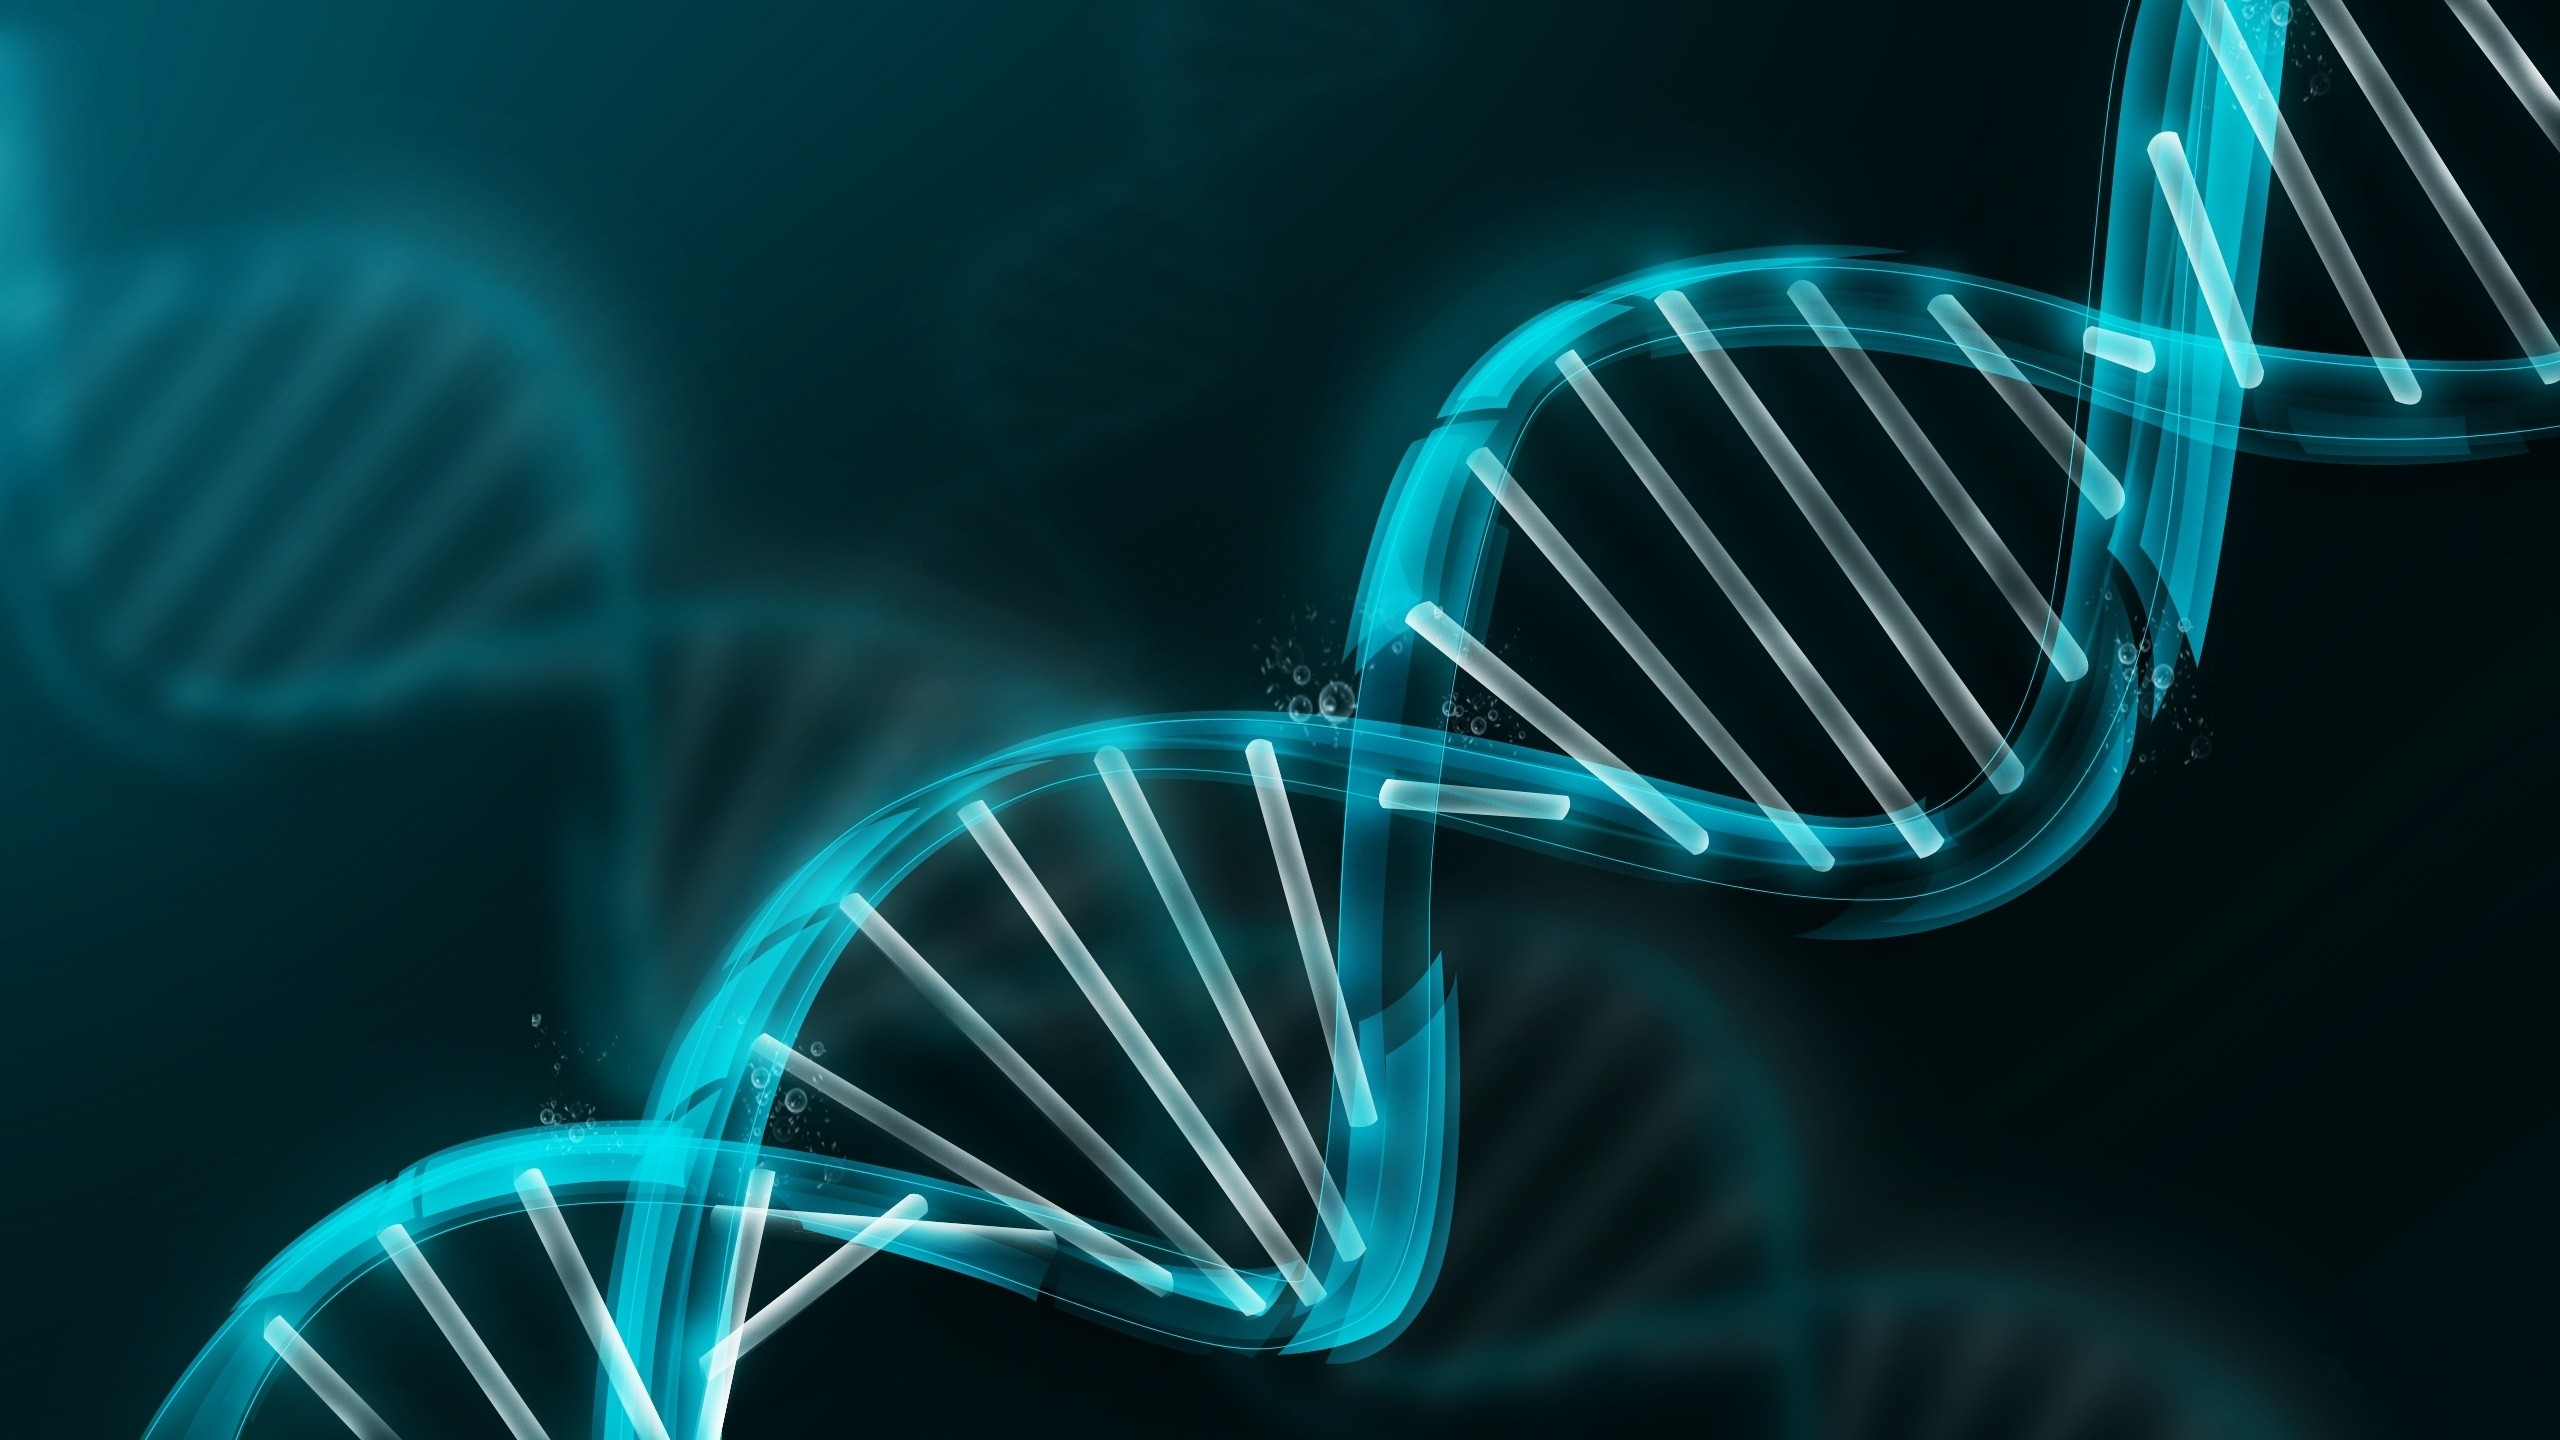
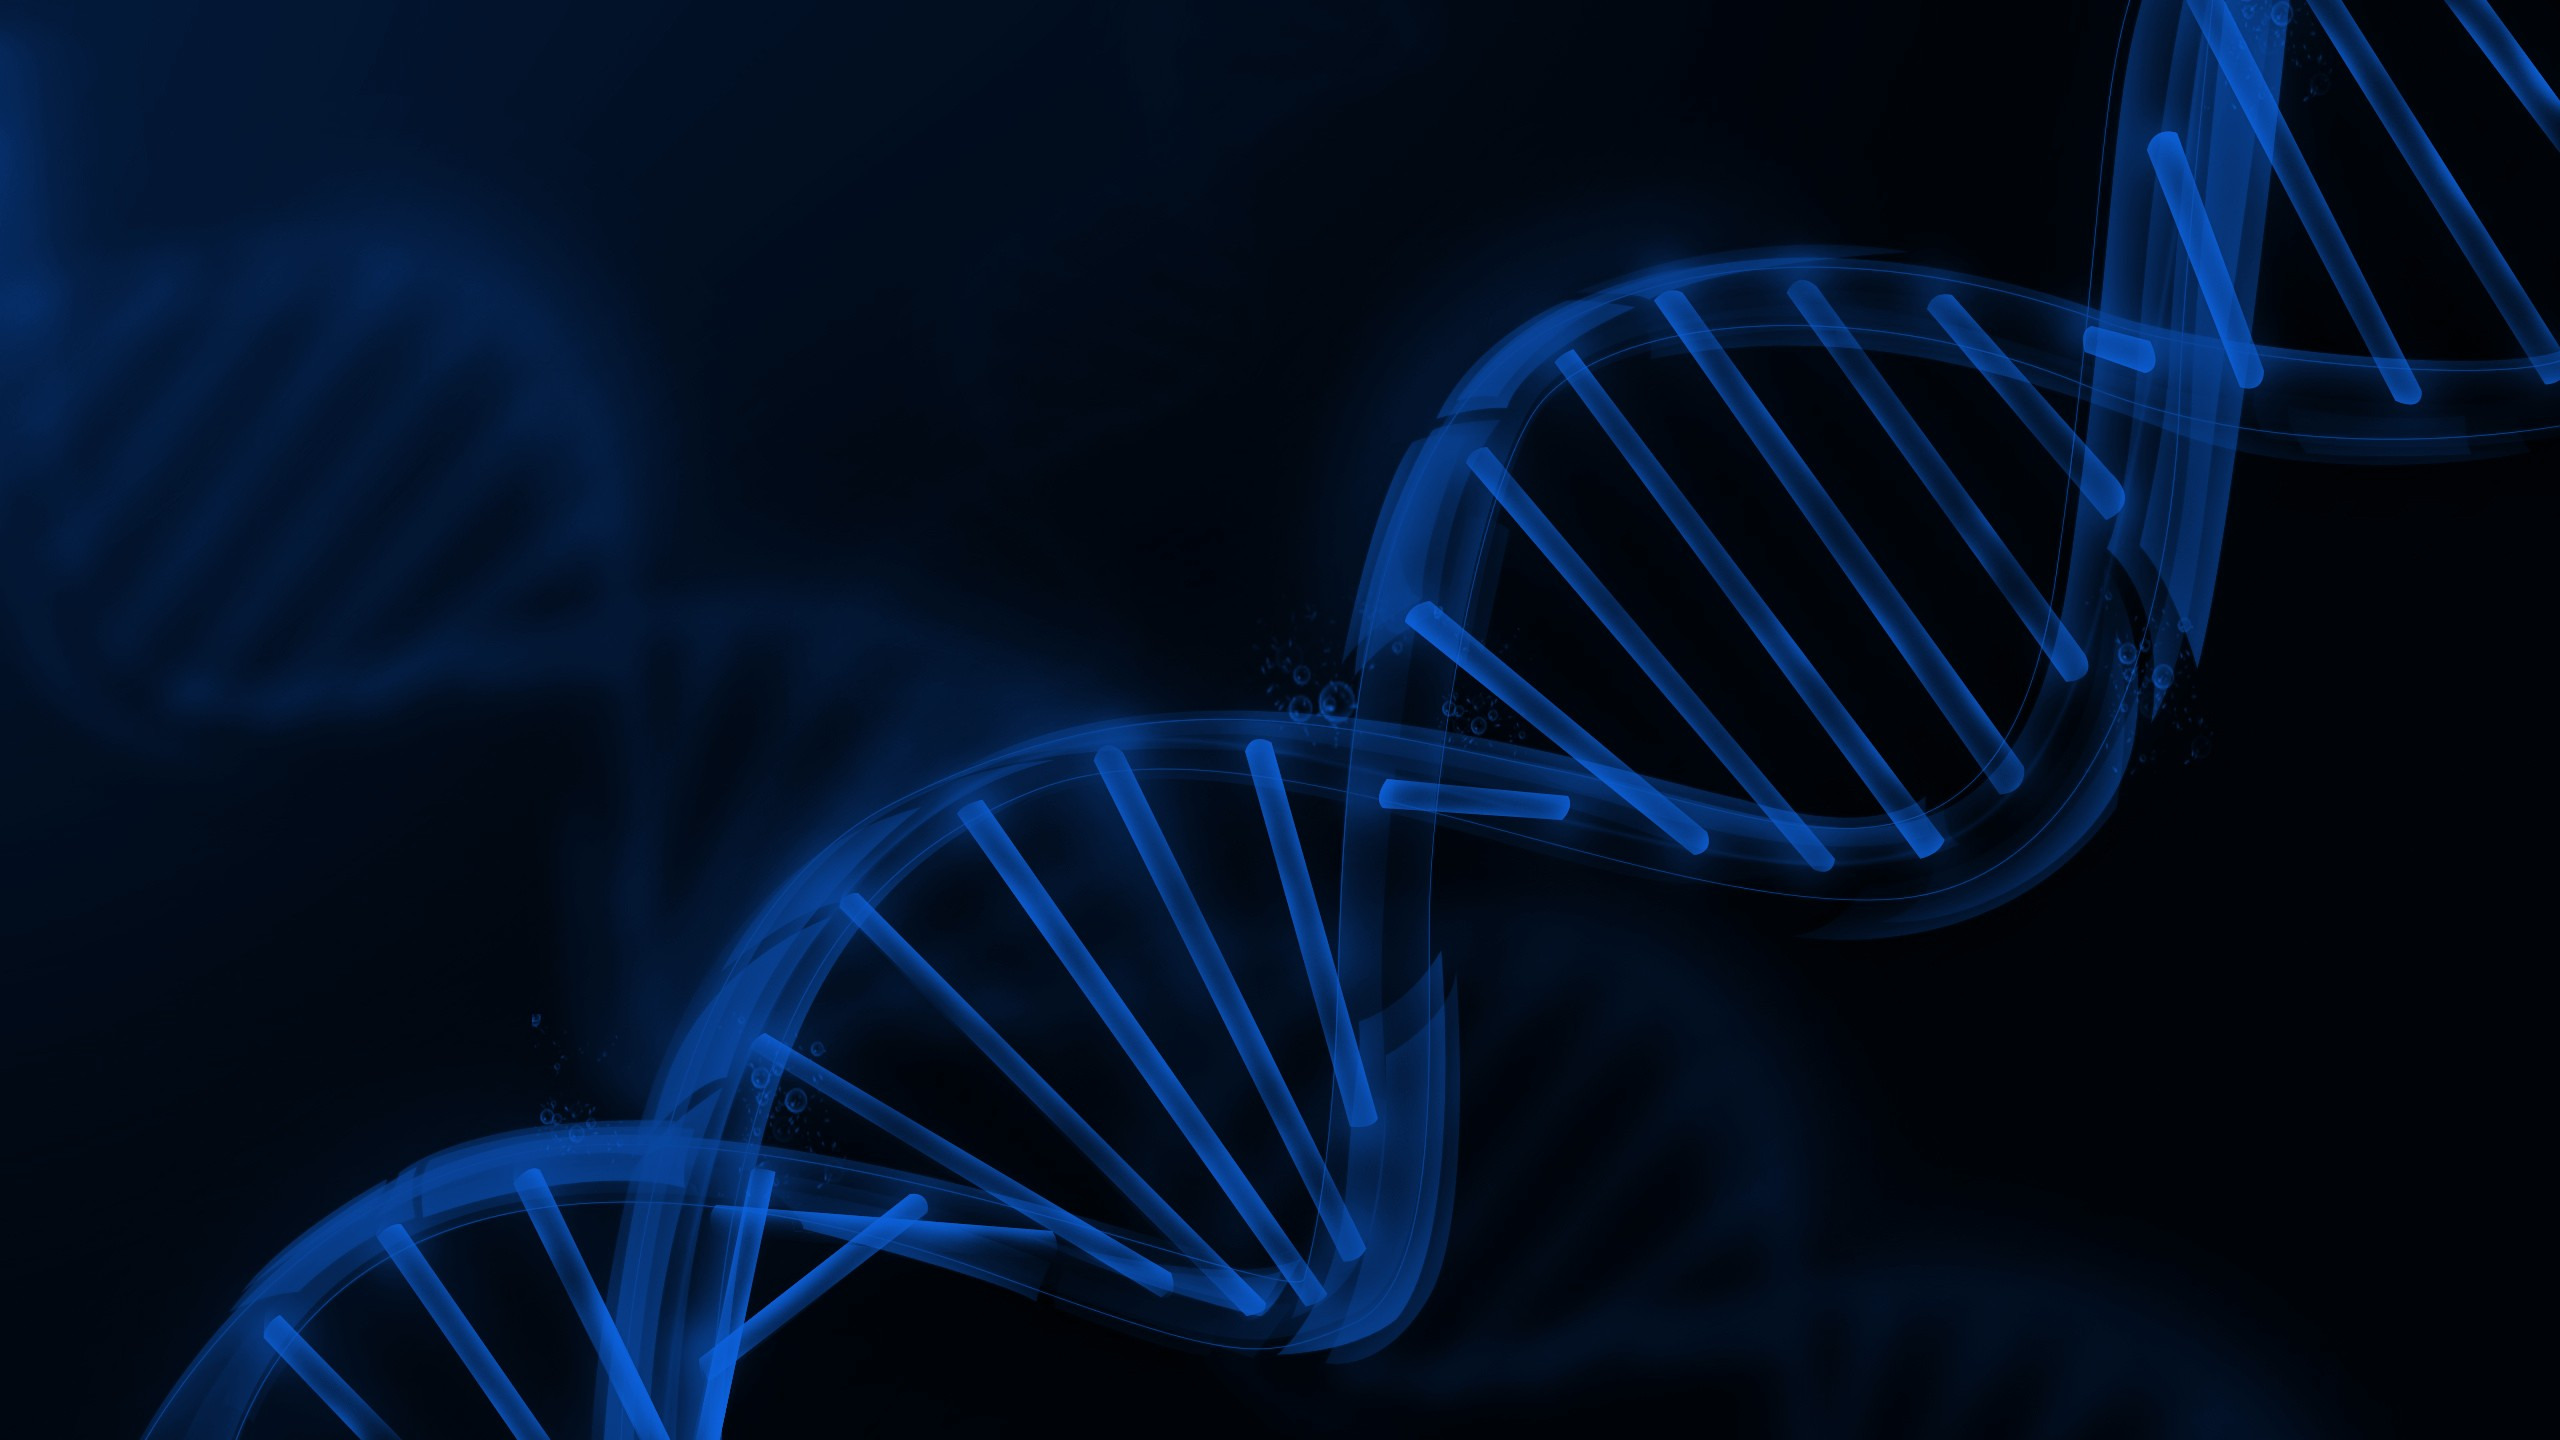
improved wallpapers to make text more visible removal of left arrow of carousel

diff --git a/index.html b/index.html
@@ -551,7 +551,7 @@ body {
             </div>
         </div>
         <div class="item">
-            <img src="img/custom/security_wallpaper.jpg" alt="">
+            <img src="img/custom/synapse_wallpaper.png" alt="">
 
             <div class="container">
                 <div class="carousel-caption">
@@ -669,6 +669,7 @@ body {
         $(function () {
             // carousel demo
             $('#myCarousel').carousel()
+            $('#myCarousel > .left.carousel-control').hide();
         })
     }(window.jQuery)
 </script>
